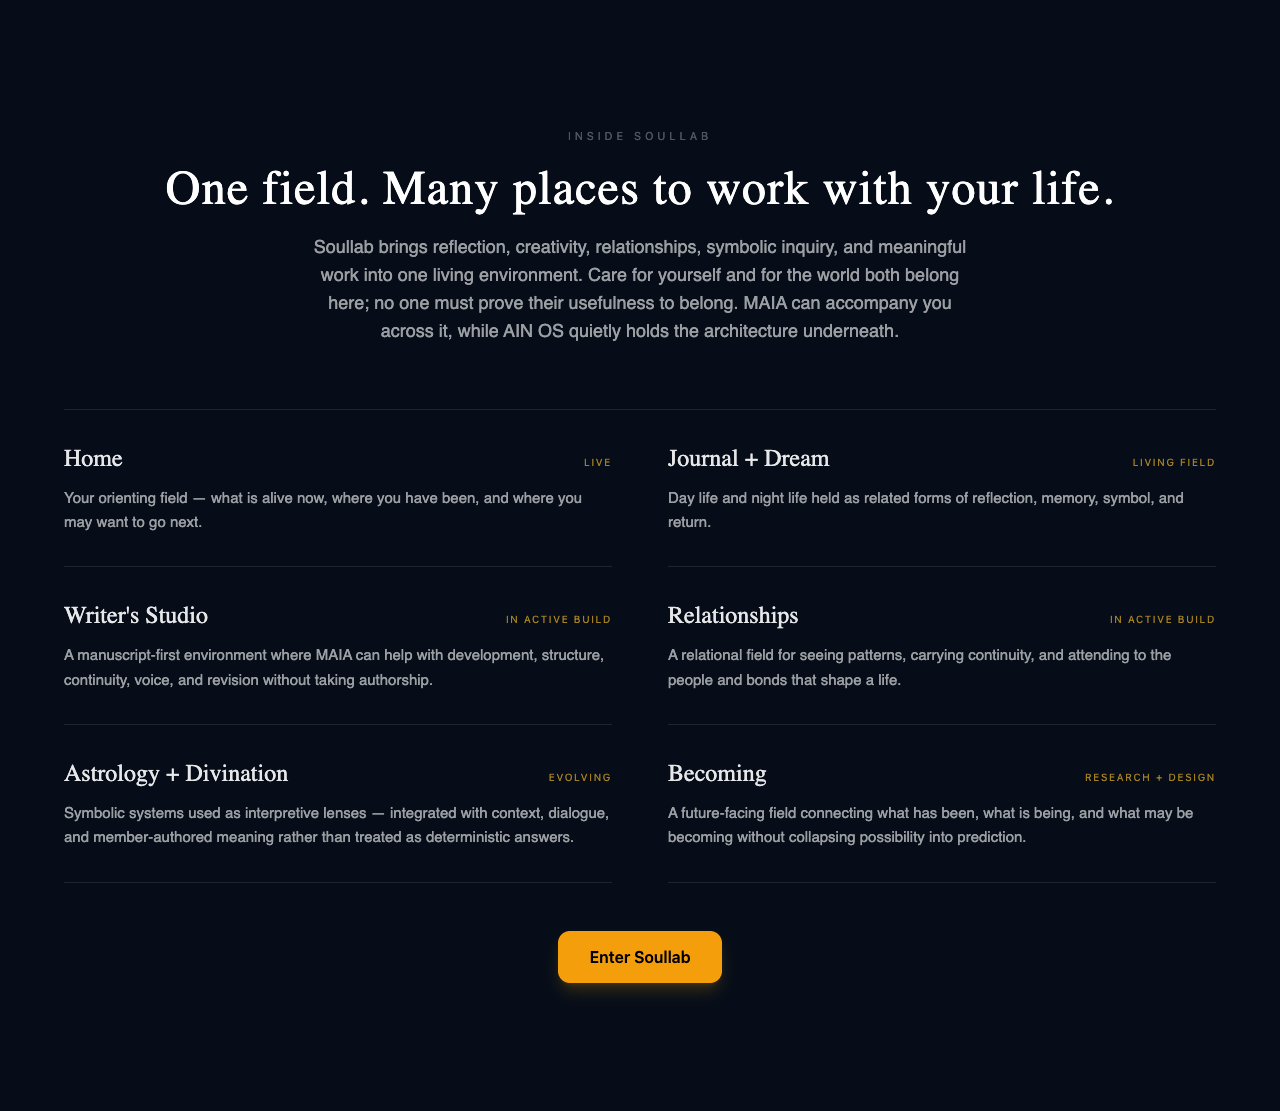
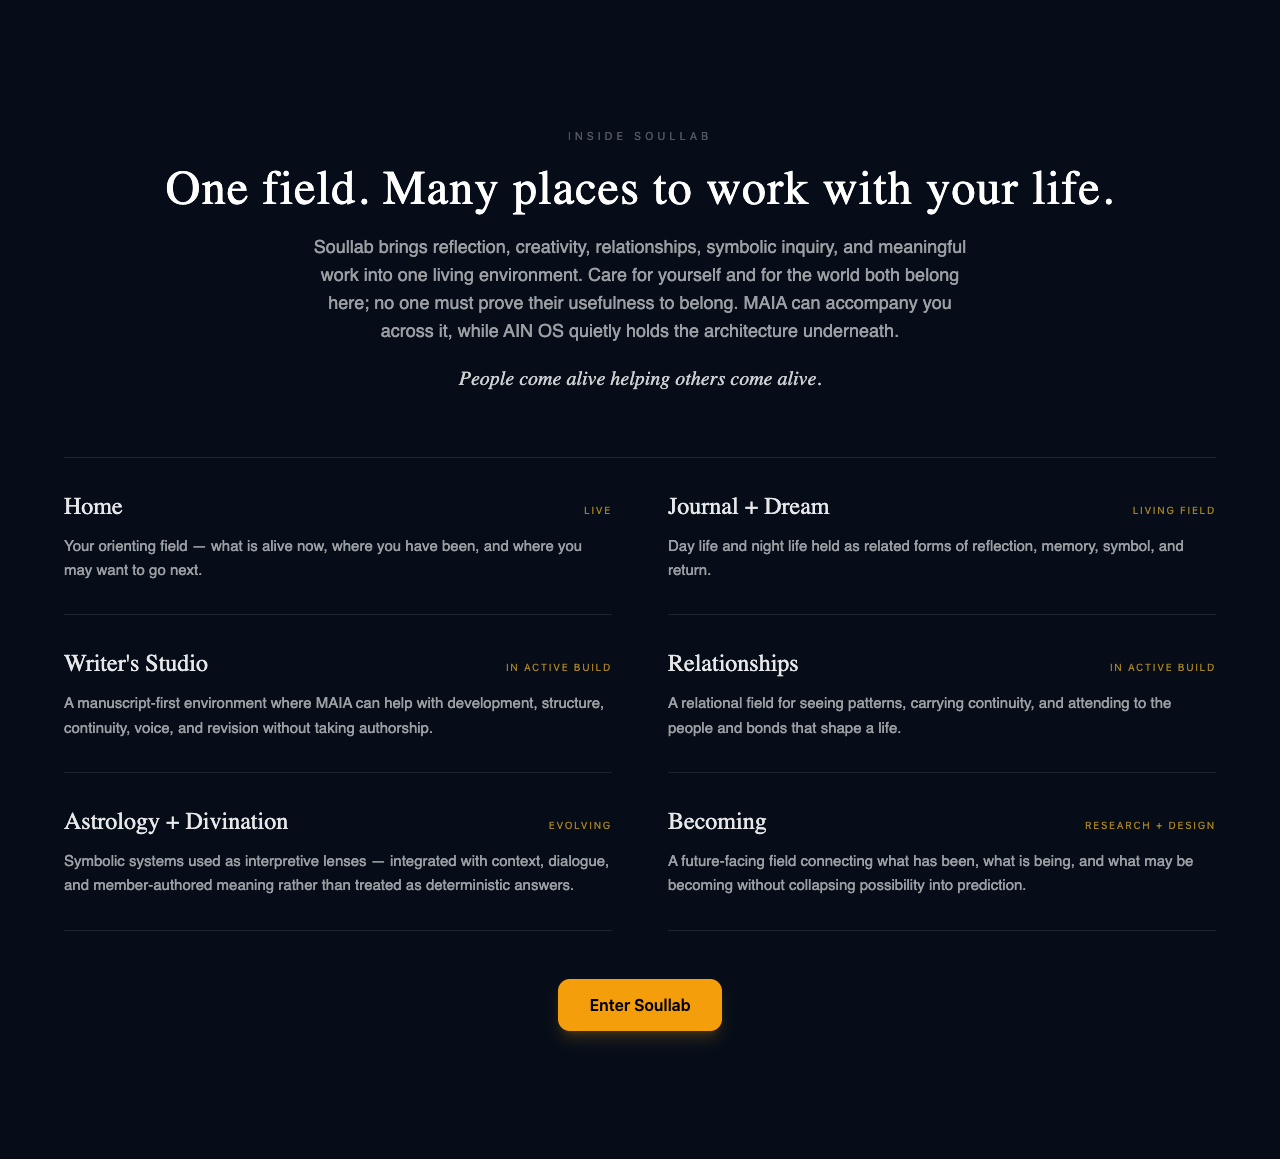
docs(brand): carry People Come Alive signature into public Platform

diff --git a/components/landing/PlatformSection.tsx b/components/landing/PlatformSection.tsx
@@ -50,13 +50,19 @@ export function PlatformSection() {
             One field. Many places to work with your life.
           </h2>
           <p
-            className="text-white/60 text-center text-base sm:text-lg leading-relaxed max-w-2xl mx-auto mb-16"
+            className="text-white/60 text-center text-base sm:text-lg leading-relaxed max-w-2xl mx-auto mb-5"
             style={{ fontFamily: "'Source Sans Pro', sans-serif" }}
           >
             Soullab brings reflection, creativity, relationships, symbolic inquiry, and meaningful work
             into one living environment. Care for yourself and for the world both belong here;
             no one must prove their usefulness to belong. MAIA can accompany you across it,
             while AIN OS quietly holds the architecture underneath.
+          </p>
+          <p
+            className="mb-16 text-center text-lg sm:text-xl italic text-white/80"
+            style={{ fontFamily: "'Crimson Pro', serif" }}
+          >
+            People come alive helping others come alive.
           </p>
         </SectionReveal>
 

diff --git a/components/landing/__tests__/serviceFirstCopyR1.test.ts b/components/landing/__tests__/serviceFirstCopyR1.test.ts
@@ -30,6 +30,7 @@ describe('Service First R1 — public and professional copy boundaries', () => {
   test('public product explanation protects rest and belonging, preserves facet standing', () => {
     expect(platform).toContain('Care for yourself and for the world both belong here;');
     expect(platform).toContain('no one must prove their usefulness to belong.');
+    expect(platform).toContain('People come alive helping others come alive.');
     expect(platform).toContain("status: 'In active build'");
     expect(platform).toContain("status: 'Research + design'");
   });

diff --git a/docs/design/contracts/service-first-public-entry-r1.md b/docs/design/contracts/service-first-public-entry-r1.md
@@ -26,7 +26,7 @@ screenshot_mobile:
   - docs/design/contracts/screenshots/service-first-expression-r1/public-mobile.png
   - docs/design/contracts/screenshots/service-first-expression-r1/platform-mobile.png
   - docs/design/contracts/screenshots/service-first-expression-r1/maia-mobile.png
-experience_verification: 2026-10-13 SYNTHETIC ACTUAL-REACT-COMPONENT WITNESS at 1280x850 and 390x844 in local Chromium. HeroSection PlatformSection MaiaSection were bundled unchanged except the R1 source diff with React and framer-motion; Next Link and Image were replaced by semantic local stand-ins and actual project Tailwind config was compiled for amended sources. Browser checked exact visible copy one Soullab Home entry no spontaneous MAIA action public/MAIA member authorship readable Platform text and zero horizontal overflow at both widths. Browser suite total 22/22 including separate Reflect surface. No external HTTP requests or page errors. This is NOT full Next deployed landing layout and does not establish production readiness or member outcome efficacy. Screenshots use reduced motion and omit global app stylesheet and font downloads; founder visual acceptance and full-app staging remain required.
+experience_verification: 2026-10-13 SYNTHETIC ACTUAL-REACT-COMPONENT WITNESS at 1280x850 and 390x844 in local Chromium. HeroSection PlatformSection MaiaSection were bundled unchanged except the R1 source diff with React and framer-motion; Next Link and Image were replaced by semantic local stand-ins and actual project Tailwind config was compiled for amended sources. Browser checked exact visible copy one Soullab Home entry no spontaneous MAIA action public/MAIA member authorship readable Platform text and zero horizontal overflow at both widths. Browser suite total 24/24 including separate Reflect surface. No external HTTP requests or page errors. This is NOT full Next deployed landing layout and does not establish production readiness or member outcome efficacy. Screenshots use reduced motion and omit global app stylesheet and font downloads; founder visual acceptance and full-app staging remain required.
 ---
 
 # Public Service First — Experience Contract R1
@@ -37,7 +37,7 @@ The visitor wants to understand Soullab without being told their life is incompl
 
 ## Room flow
 
-The landing offers one continuous story: purpose in the hero, plural places within Soullab in Platform, and MAIA as a relational intelligence under the platform rather than a second front door. The Platform section expressly states that self and world both belong and no one must earn belonging through usefulness. Existing facet statuses (**Live / Living field / In active build / Research + design**) are preserved, without new Ganesha capability claims.
+The landing offers one continuous story: purpose in the hero, plural places within Soullab in Platform, and MAIA as a relational intelligence under the platform rather than a second front door. The Platform section expressly states that self and world both belong and no one must earn belonging through usefulness. It also carries the founder's recurring signature, **People come alive helping others come alive**, as an invitation, not an outcome claim. Existing facet statuses (**Live / Living field / In active build / Research + design**) are preserved, without new Ganesha capability claims.
 
 ## Intervention kept small
 

diff --git a/docs/programme/SERVICE_FIRST_CROSS_SURFACE_R1_REVIEW_HANDOFF_2026-10-13.md b/docs/programme/SERVICE_FIRST_CROSS_SURFACE_R1_REVIEW_HANDOFF_2026-10-13.md
@@ -15,7 +15,7 @@ Founder requested editorial and implementation consistency for the Soullab brand
 | Surface | Source | Proposal | What remains unchanged |
 |---|---|---|---|
 | Soullab landing hero | `components/landing/HeroSection.tsx` | “For those in service to self and world”; “A life is not a project to perfect” | Soullab identity; existing Home CTA, secondary understanding CTA and site entry |
-| Soullab Platform | `components/landing/PlatformSection.tsx` | Explicit equal legitimacy of caring for self/world, no usefulness test; readable facet copy | Existing member facets, their status labels, route gesture |
+| Soullab Platform | `components/landing/PlatformSection.tsx` | Explicit equal legitimacy of caring for self/world, no usefulness test, founding signature; readable facet copy | Existing member facets, their status labels, route gesture |
 | Public MAIA section | `components/landing/MaiaSection.tsx` | “Never ... an assignment to serve”; member chooses what matters | MAIA model/prompt, live encounter route, provider and conversation behavior |
 | Pro Studio Reflect preview | `components/pro-studio/ReflectArrivalView.tsx` | Care for helpers includes rest/boundaries: “Your well-being is not last” | Beta invite gate, free MAIA encounter link, no paid Reflect, no client record |
 | Ganesha Life Flow | `docs/marketing/SERVICE_FIRST_CROSS_SURFACE_EDITORIAL_R1_2026-10-13.md` | An editorial direction, “A life lived in relationship” | No new route, product grant, Ganesha Focus Garden or AI agent voice |
@@ -25,7 +25,7 @@ Founder requested editorial and implementation consistency for the Soullab brand
 
 - Local static fixture bundled the **actual amended React components** with real React 19, framer-motion, and project Tailwind utility classes. Next Link/Image replaced only with semantic local stand-ins, not claimed as full production Next.js or installed marketing fonts.
 - Screenshots at 1280×850 and 390×844 for Hero, Platform, MAIA, and Reflect (8 files in `docs/design/contracts/screenshots/service-first-expression-r1/`).
-- 22 of 22 browser checks PASS. They cover exact copy, Home CTA, absence of auto-MAIA calls, retained free MAIA link, explicit paid Reflect nonavailability, visible Platform text and no document overflow at both sizes. Zero external network requests or JS page errors.
+- 24 of 24 browser checks PASS. They cover exact copy, Home CTA, absence of auto-MAIA calls, retained free MAIA link, explicit paid Reflect nonavailability, visible Platform text and no document overflow at both sizes. Zero external network requests or JS page errors.
 - An initial 390px fixture had 44px horizontal overflow from the pre-existing MAIA aura (`w-[520px]`) and black-on-dark facet text from `text-white/42`. The candidate confines that aura horizontally and uses a supported `text-white/60` opacity; retest: 0px overflow and readable facet text.
 - 22 of 22 focused Jest regression/contract tests PASS across public landing, new Service First textual boundary, Pro Studio Reflect session and beta gate. The installed Jest dependencies came from the older development checkout; the actual JSX was compiled and inspected in the separate fixture, not a revision-matched full Next.js build.
 

diff --git a/docs/design/contracts/service-first-pro-reflect-r1.md b/docs/design/contracts/service-first-pro-reflect-r1.md
@@ -19,7 +19,7 @@ screenshot_desktop:
   - docs/design/contracts/screenshots/service-first-expression-r1/reflect-desktop.png
 screenshot_mobile:
   - docs/design/contracts/screenshots/service-first-expression-r1/reflect-mobile.png
-experience_verification: 2026-10-13 SYNTHETIC ACTUAL-REACT-COMPONENT WITNESS using ReflectArrivalView in Chrome at 1280x850 and 390x844, reduced motion, Tailwind classes compiled from exact source. Headline remained Your work begins with you; new self-care invitation readable; exactly one href=/maia/encounter link; room states paid Reflect remains inactive; zero horizontal overflow and zero external requests. Test suite was 22/22 across public and Reflect and no page errors. Next Link/Image use local semantic stand-ins; this does not verify real session authorization, the MAIA encounter's success, member consent, full Next production layout or professional record privacy. No member records or provider calls. Founder visual acceptance remains pending.
+experience_verification: 2026-10-13 SYNTHETIC ACTUAL-REACT-COMPONENT WITNESS using ReflectArrivalView in Chrome at 1280x850 and 390x844, reduced motion, Tailwind classes compiled from exact source. Headline remained Your work begins with you; new self-care invitation readable; exactly one href=/maia/encounter link; room states paid Reflect remains inactive; zero horizontal overflow and zero external requests. Test suite was 24/24 across public and Reflect and no page errors. Next Link/Image use local semantic stand-ins; this does not verify real session authorization, the MAIA encounter's success, member consent, full Next production layout or professional record privacy. No member records or provider calls. Founder visual acceptance remains pending.
 ---
 
 # Reflect — sustain the helper as a whole person
